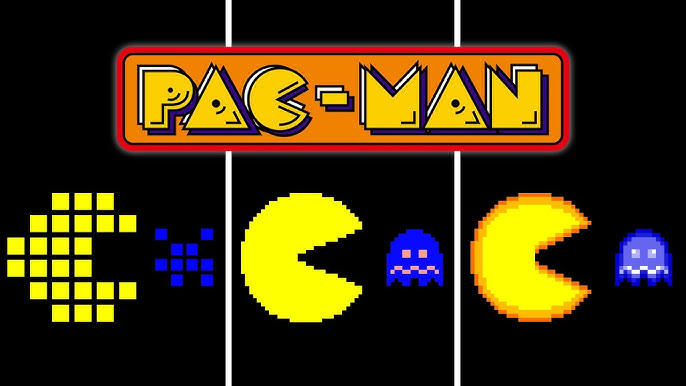
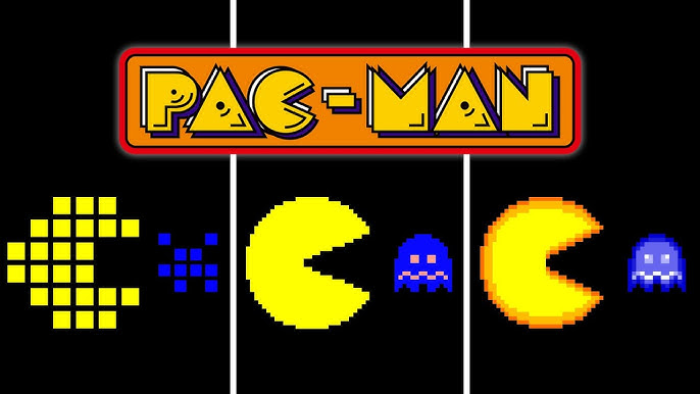
Edited splashScreen

diff --git a/game-source-code/GameMode.cpp b/game-source-code/GameMode.cpp
@@ -10,7 +10,13 @@ PacMan::PacMan(){
     mode = Mode_select::Splash_screen;
     window->SetTargetFPS(60);
     splash = LoadTexture("../resources/pacman.png");
-    cout<< "Constructed "<<endl;
+    splashPosition = {450,100};
+    keys = LoadTexture("../resources/arrowKey.png");
+    keyPosition = {1220,650};
+    enter = LoadTexture("../resources/enter.png");
+    enterPosition = {650, 560};
+    p = LoadTexture("../resources/p.png");
+    pPosition = {400, 540};
     Game_Opperations = make_unique<GameOperations>();    
     
 }
@@ -55,9 +61,14 @@ void PacMan::run(){
                 case Mode_select::Splash_screen:
 
                     BeginDrawing();
-                    ClearBackground(GREEN);
-                    DrawTextureEx(splash, ZeroZero,0, 2.35, WHITE);
-                    DrawText("press enter to start, use arrows to move and p to pause", 800, 800, 25, WHITE); 
+                    ClearBackground(BLACK);
+                    DrawTextureEx(splash, splashPosition, 0, 1, WHITE); 
+                    DrawTextureEx(keys, keyPosition, 0, 1, WHITE);
+                    DrawText("USE ARROW KEYS TO MOVE", 1210, 610, 25, GREEN);
+                    DrawTextureEx(enter, enterPosition, 0, 1, WHITE);
+                    DrawText("PRESS ENTER TO PLAY", 500, 510, 50, GREEN); 
+                    DrawTextureEx(p, pPosition, 0, 1, WHITE);
+                    DrawText("PRESS P TO PAUSE", 350, 750, 25, GREEN); 
                     EndDrawing();
                 break;
 

diff --git a/game-source-code/GameMode.h b/game-source-code/GameMode.h
@@ -36,7 +36,13 @@ private:
     unique_ptr<GameOperations> Game_Opperations;
     Mode_select mode;
     raylib::Texture2D splash;
-    Vector2 ZeroZero = {0,0};
+    raylib::Texture2D keys;
+    raylib::Texture2D enter;
+    raylib::Texture2D p;
+    Vector2 splashPosition;
+    Vector2 keyPosition;
+    Vector2 enterPosition;
+    Vector2 pPosition;
     const int screen_width =1600;
     const int screen_height =900;
 };
